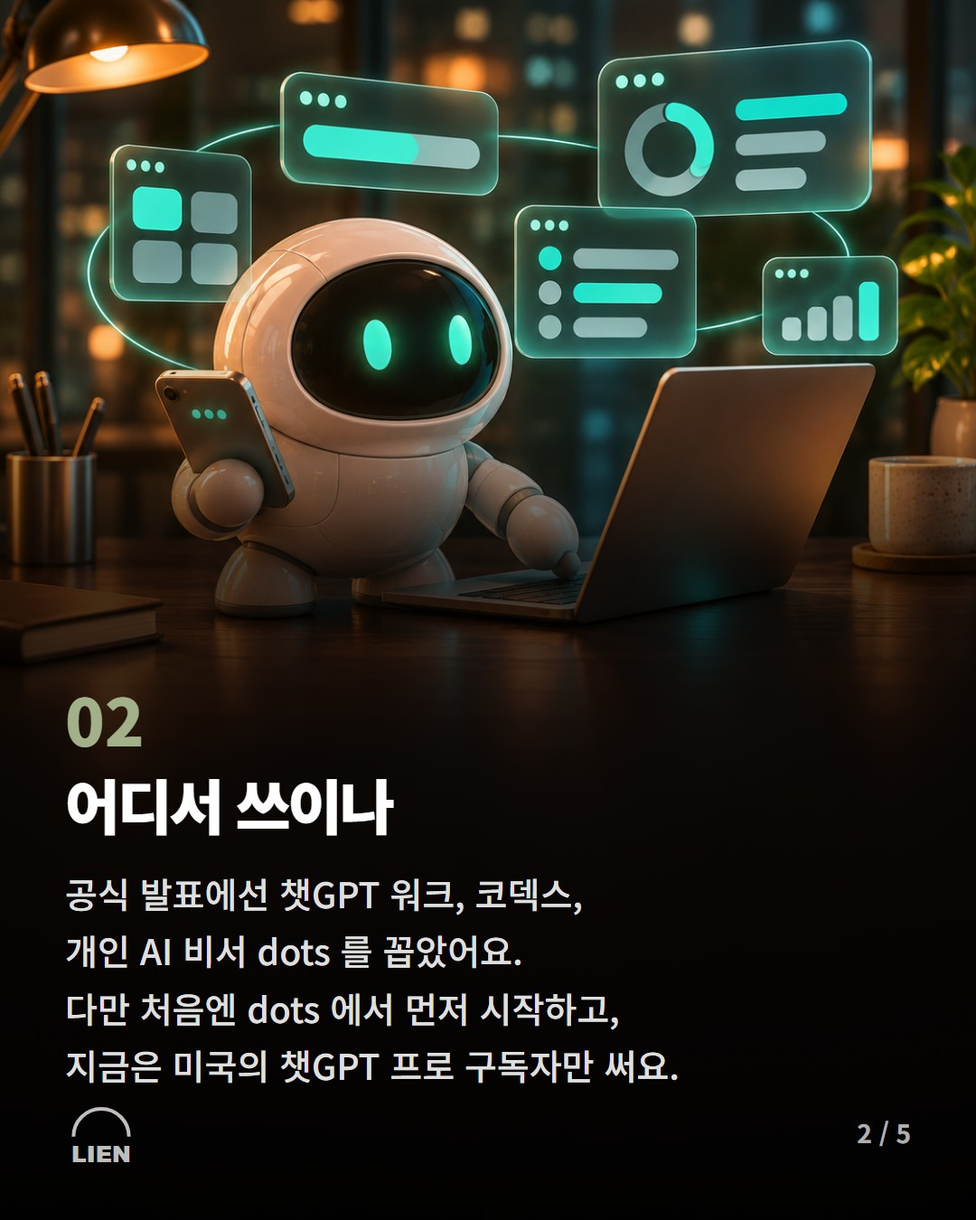
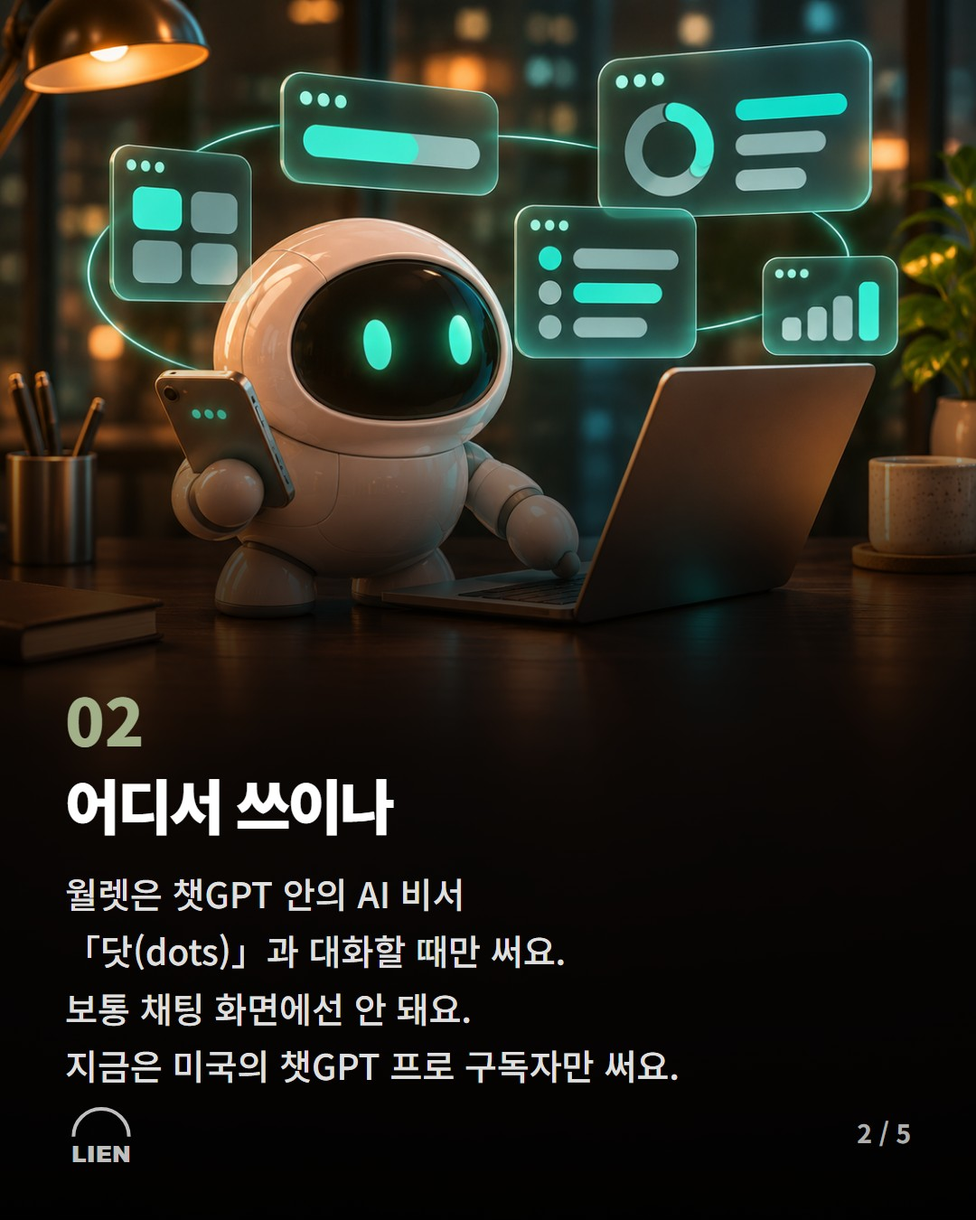
홈페이지 갱신

Changed region(s): [[0.0611, 0.7156, 0.6417, 0.84]]

diff --git a/jaryo/2026-11-15-ai-shopping-guide/index.html b/jaryo/2026-11-15-ai-shopping-guide/index.html
@@ -1,0 +1,36 @@
+<!doctype html><html lang="ko"><head><meta charset="utf-8">
+<meta name="viewport" content="width=device-width,initial-scale=1">
+<title>지금 바로 쓰는 챗GPT 쇼핑 도우미 | LIEN</title><meta name="description" content="장보기·비교·선물 질문 8개와 결제할 때 지킬 점">
+<meta property="og:title" content="지금 바로 쓰는 챗GPT 쇼핑 도우미 | LIEN"><meta property="og:description" content="장보기·비교·선물 질문 8개와 결제할 때 지킬 점">
+<link rel="icon" href="../../icon.svg">
+<link rel="preconnect" href="https://fonts.googleapis.com"><link rel="preconnect" href="https://fonts.gstatic.com" crossorigin>
+<link href="https://fonts.googleapis.com/css2?family=Noto+Sans+KR:wght@400;700;800;900&display=swap" rel="stylesheet">
+<link rel="stylesheet" href="../../style.css"></head><body><div class="wrap"><div class="bar"><a class="back" href="../../">‹ 자료실</a><svg viewBox="0 0 120 104" width="46" xmlns="http://www.w3.org/2000/svg" aria-label="LIEN"><path d="M14 58 A46 46 0 0 1 106 58" fill="none" stroke="#181A16" stroke-width="6"/><text x="60" y="100" text-anchor="middle" font-family="Arial Black, Arial" font-weight="900" font-size="38" fill="#181A16">LIEN</text></svg><span style="width:70px"></span></div><span class="tag">따라 하기 자료</span><h2>지금 바로 쓰는 챗GPT 쇼핑 도우미</h2><div class="meta">2026-11-18 · 카드뉴스 「<a href="../../cards/2026-11-15-chatgpt-wallet/">이것까지 딸깍?</a>」 이어 보기</div><div class="exp"><b>한국에서는 지금 어디까지 되나요?</b><p>챗GPT 월렛은 아직 한국에서 쓸 수 없어요. 미국에 살고 미국에서 발급한 신용카드가 있는, 만 18세 이상 챗GPT 유료 요금제 「프로」 이용자에게만 차례로 열리고 있어요. 오픈AI는 앞으로 더 많은 사람이 쓰게 넓히겠다고만 했고, 한국에 언제 여는지는 밝히지 않았어요. 월렛이 들어가는 AI 비서 닷(dots)은 한국에서도 만 18세 이상 프로 이용자에게 차례로 열리고 있지만, 월렛 결제는 미국에서만 돼요.
+
+대신 「찾고 → 비교하고 → 고르기」는 지금 한국에서도 챗GPT로 할 수 있어요. 인터넷 검색은 무료 요금제에서도 돼요. 아래 질문 글을 복사해 붙여 넣고, 결제만 판매처에서 직접 하면 돼요.</p></div><div class="step"><span class="n">1</span><div><b>챗GPT를 열어요</b><i>휴대폰에 챗GPT 앱이 없으면 플레이스토어(아이폰은 앱스토어)에서 「ChatGPT」를 찾아, 만든 곳에 「OpenAI」라고 적힌 앱을 받아요. 컴퓨터는 chatgpt.com 에 들어가면 돼요. 로그인은 해 두고, 요금제는 무료로 충분해요. 앱을 열면 빈 「새 채팅」이 바로 준비돼 있어요.</i></div></div><div class="step"><span class="n">2</span><div><b>쇼핑 도우미 규칙부터 보내요</b><i>아래 「① 쇼핑 도우미 규칙」 칸 오른쪽 위의 「복사」를 누르고, 챗GPT 맨 아래 글 쓰는 칸을 길게 눌러 「붙여넣기」 한 뒤 보내요. 복사가 안 되면 칸 안의 글을 길게 눌러 골라서 복사해요. 출처 링크와 날짜를 달아 달라고, 결제는 하지 말라고 미리 말해 두는 거예요.</i></div></div><div class="step"><span class="n">3</span><div><b>상황에 맞는 질문을 골라 보내요</b><i>①을 보낸 그 대화에 이어서 보내요. 예산·인원·나이 같은 내용은 내 상황으로 고치면 더 잘 맞아요. 사진이 필요한 질문은 글 쓰는 칸 옆의 + 를 눌러 사진을 함께 올려요(무료 요금제는 하루 3개까지). 화면 캡처에 카드 번호·주소·전화번호가 보이면 가리고 올려요.</i></div></div><div class="step"><span class="n">4</span><div><b>출처 링크를 열어 날짜를 봐요</b><i>인터넷 검색 결과는 오래됐거나 틀릴 수 있어요. 답 문장 끝에 붙은 작은 사이트 이름을 누르면 그 글이 열리고, 답 아래 「출처」를 누르면 링크를 모아 볼 수 있어요. 정말 그렇게 적혀 있는지, 언제 올라온 글인지 확인하고, 이상하면 「공식 판매처 기준으로 다시 찾아 줘」라고 부탁해요.</i></div></div><div class="step"><span class="n">5</span><div><b>결제는 판매처에서 내가 직접 해요</b><i>배송비까지 더한 최종 가격, 재고·크기·색상, 반품·보증 조건을 판매처 화면에서 확인한 뒤 결제해요.</i></div></div><div class="q"><div class="qt">① 쇼핑 도우미 규칙 — 맨 먼저 보내기</div><div class="qb">지금부터 이 대화에서 내 쇼핑 도우미가 되어 줘. 아래 규칙을 꼭 지켜 줘.
+1. 가격·재고·할인처럼 자주 바뀌는 정보는 인터넷에서 새로 찾아서 답하고, 출처 링크와 그 글이 올라온 날짜를 같이 적어 줘.
+2. 일주일이 넘은 가격·할인 정보나 출처가 분명하지 않은 정보는 「확인 필요」라고 표시해 줘.
+3. 광고나 협찬으로 보이는 글은 근거로 쓰지 마.
+4. 주문·결제·회원가입은 하지 말고, 내가 직접 살 수 있게 판매처 링크만 줘.
+5. 내 카드 번호, 비밀번호, 인증번호는 절대 묻지 마.
+알겠으면 「준비됐어요」라고만 답해 줘.</div><button class="cp" onclick="navigator.clipboard.writeText(this.previousElementSibling.textContent);this.textContent='복사됨'">복사</button></div><div class="q"><div class="qt">② 일주일 장보기 목록</div><div class="qb">맞벌이 4인 가족(초등학생 2명)의 다음 주 평일 저녁 메뉴 5일 치를 짜 줘.
+- 한 끼 준비 시간은 30분 안
+- 재료가 서로 겹치게 짜서 남는 재료 줄이기
+- 장보기 예산은 12만 원 안
+메뉴표를 먼저 보여 주고, 장보기 목록은 채소·고기·생선·양념·기타로 나눠 필요한 양과 함께 정리해 줘. 집에 흔히 있는 양념은 따로 표시해 줘.</div><button class="cp" onclick="navigator.clipboard.writeText(this.previousElementSibling.textContent);this.textContent='복사됨'">복사</button></div><div class="q"><div class="qt">③ 냉장고 사진으로 오늘 저녁 정하기 (사진 함께)</div><div class="qb">냉장고 안을 찍은 사진을 같이 보낼게. 사진 속 재료로 오늘 저녁에 만들 수 있는 메뉴 3가지를 추천해 줘. 빨리 써야 할 것 같은 재료가 들어가는 메뉴부터 보여 주고, 메뉴마다 더 사야 할 재료만 짧게 적어 줘.</div><button class="cp" onclick="navigator.clipboard.writeText(this.previousElementSibling.textContent);this.textContent='복사됨'">복사</button></div><div class="q"><div class="qt">④ 가전 비교표 만들기</div><div class="qb">원룸에서 쓸 무선 청소기를 사려고 해. 예산은 30만 원 안이고, 손목이 약해서 가벼운 게 좋아.
+인터넷에서 최근 후기와 제품 정보를 찾아 많이 추천되는 제품 3개를 골라 줘. 무게, 한 번 충전으로 쓰는 시간, 소음, 먼지통 크기, 소모품 값을 표로 비교하고, 내 조건에 가장 맞는 하나를 이유와 함께 골라 줘. 출처 링크와 날짜도 붙여 줘.</div><button class="cp" onclick="navigator.clipboard.writeText(this.previousElementSibling.textContent);this.textContent='복사됨'">복사</button></div><div class="q"><div class="qt">⑤ 부모님 선물 고르기</div><div class="qb">60대 아버지 생신 선물을 고르고 있어. 예산은 10만 원 안이고, 등산과 낚시를 좋아하시는데 요즘 무릎이 조금 안 좋으셔.
+받자마자 쓸 수 있는 선물 5개를 추천해 줘. 선물마다 왜 좋은지 한 줄, 살 때 확인할 점(크기, 교환·반품 가능 여부) 한 줄씩 적어 줘. 건강식품과 상품권은 빼 줘.</div><button class="cp" onclick="navigator.clipboard.writeText(this.previousElementSibling.textContent);this.textContent='복사됨'">복사</button></div><div class="q"><div class="qt">⑥ 가족 여행 준비물</div><div class="qb">이번 겨울에 강원도 스키장으로 2박 3일 가족 여행을 가. 어른 2명, 7살 아이 1명이야.
+준비물 목록을 만들어 줘. 집에 있을 법한 것, 새로 사야 할 것, 빌리는 게 나은 것으로 나누고, 새로 살 것은 「꼭 필요」와 「있으면 좋음」으로 표시해 줘.</div><button class="cp" onclick="navigator.clipboard.writeText(this.previousElementSibling.textContent);this.textContent='복사됨'">복사</button></div><div class="q"><div class="qt">⑦ 국내에서 살까, 해외 직구로 살까</div><div class="qb">무선 이어폰을 국내 정식 판매처에서 살 때와 해외 직구로 살 때를 비교해 줘.
+가격 말고도 보증·수리, 배송 기간, 교환·반품 방법, 세금이 붙는 기준을 표로 정리해 줘. 세금 기준은 관세청 같은 공식 출처에서 찾아 링크와 날짜를 붙여 줘.</div><button class="cp" onclick="navigator.clipboard.writeText(this.previousElementSibling.textContent);this.textContent='복사됨'">복사</button></div><div class="q"><div class="qt">⑧ 결제 직전 마지막 점검 (화면 캡처 함께)</div><div class="qb">지금 사려는 상품의 판매 화면을 캡처해서 같이 보낼게. 결제 전에 확인할 것들을 이 화면에서 찾아 정리해 줘.
+- 배송비까지 더한 최종 가격
+- 도착 예정일
+- 교환·반품 조건과 비용
+- 판매자 정보
+- 정기 결제나 자동 갱신이 붙어 있는지
+화면에서 확인할 수 없는 항목은 따로 알려 줘.</div><button class="cp" onclick="navigator.clipboard.writeText(this.previousElementSibling.textContent);this.textContent='복사됨'">복사</button></div><div class="warn"><b>⚠ 챗GPT가 알려 준 가격, 그대로 믿지 않기</b><p>챗GPT 첫 답에 나온 가격은 최저가가 아닐 수 있고, 판매처가 값을 바꾸면 늦게 반영될 수 있어요. 후기 요약과 상품에 붙은 추천 표시도 오픈AI가 확인한 사실이 아니에요. 결제하기 전에는 꼭 판매처 화면에서 다시 확인해요.</p></div><div class="warn"><b>⚠ AI가 결제하자고 할 때 지킬 5가지</b><p>오픈AI 월렛 도움말에 나온 안내를 결제 순서에 맞춰 모았어요. 다른 AI 결제 기능을 쓸 때도 똑같이 지키면 돼요.
+1) 판매처·품목·총액·선택된 카드를 하나씩 봐요. 배송 조건과 정기 결제인지도 함께 확인해요.
+2) 내가 부탁한 구매가 맞는지, 믿을 만한 판매처인지 확인해요. 아니면 거절해요.
+3) 카드 번호·유효기간·보안 코드는 채팅창에 절대 쓰지 않아요. 보안 입력 칸에만 넣고, 화면 캡처를 올릴 땐 카드 번호를 가려요.
+4) 승인했다고 주문이 끝난 건 아니에요. 판매처 주문 확인을 보고, 결과가 애매하면 바로 다시 결제하지 말고 판매처에 물어요.
+5) 취소·환불은 판매처에, 내가 하지 않은 결제는 카드사에 바로 알려요.</p></div>
+<div class="foot">LIEN · 당신에게 꼭 필요한 AI 소식과 꿀팁<br><a href="https://www.instagram.com/ai_lien_news/">@ai_lien_news</a></div></div></body></html>

diff --git a/jaryo/2026-11-15-ai-mode-guide/index.html b/jaryo/2026-11-15-ai-mode-guide/index.html
@@ -1,0 +1,18 @@
+<!doctype html><html lang="ko"><head><meta charset="utf-8">
+<meta name="viewport" content="width=device-width,initial-scale=1">
+<title>구글 AI 모드 켜는 법과 질문 10개 | LIEN</title><meta name="description" content="한국어로 바로 쓰는 5단계 + 복사해 쓰는 질문">
+<meta property="og:title" content="구글 AI 모드 켜는 법과 질문 10개 | LIEN"><meta property="og:description" content="한국어로 바로 쓰는 5단계 + 복사해 쓰는 질문">
+<link rel="icon" href="../../icon.svg">
+<link rel="preconnect" href="https://fonts.googleapis.com"><link rel="preconnect" href="https://fonts.gstatic.com" crossorigin>
+<link href="https://fonts.googleapis.com/css2?family=Noto+Sans+KR:wght@400;700;800;900&display=swap" rel="stylesheet">
+<link rel="stylesheet" href="../../style.css"></head><body><div class="wrap"><div class="bar"><a class="back" href="../../">‹ 자료실</a><svg viewBox="0 0 120 104" width="46" xmlns="http://www.w3.org/2000/svg" aria-label="LIEN"><path d="M14 58 A46 46 0 0 1 106 58" fill="none" stroke="#181A16" stroke-width="6"/><text x="60" y="100" text-anchor="middle" font-family="Arial Black, Arial" font-weight="900" font-size="38" fill="#181A16">LIEN</text></svg><span style="width:70px"></span></div><span class="tag">따라 하기 자료</span><h2>구글 AI 모드 켜는 법과 질문 10개</h2><div class="meta">2026-11-18 · 카드뉴스 「<a href="../../cards/2026-11-15-google-hydrogen/">구글 검색이 확 달라졌다</a>」 이어 보기</div><div class="exp"><b>AI 모드, 한국어로 지금 바로 돼요</b><p>「AI 모드」는 구글 검색 안에 있는 AI 검색이에요. 궁금한 걸 문장으로 물으면 질문을 작은 갈래로 나눠 여러 곳을 한꺼번에 찾아본 뒤, 답을 정리해 링크와 함께 보여 줘요.
+한국에서 한국어로 쓸 수 있어요. 구글 도움말의 지원 나라·언어 목록에 대한민국과 한국어가 들어 있어요.
+구글은 11월 12일부터 새 AI 「제미나이 4 하이드로젠」을 검색에 차례로 넣고 있어요. 누구나 쓸 수 있고, AI 모드가 지원하는 모든 언어에서 답이 더 섬세해진다고 했어요. 한국어도 그 언어 중 하나예요.</p></div><div class="step"><span class="n">1</span><div><b>휴대폰은 구글 앱에서 「AI 모드」</b><i>구글 앱(흰 바탕에 알록달록한 G 그림)을 열면 처음 나오는 화면에 「AI 모드」가 있어요. 그걸 눌러요.
+앱이 없으면 플레이 스토어(아이폰은 앱 스토어)에서 「구글」을 찾아 받거나, 2번처럼 인터넷 창에서 열어요.</i></div></div><div class="step"><span class="n">2</span><div><b>또는 인터넷 창에서 google.com/ai</b><i>컴퓨터나 휴대폰의 크롬·사파리 같은 인터넷 창 주소창에 google.com/ai 를 넣으면 AI 모드가 바로 열려요.
+google.com 검색창에 질문을 쓰고 「AI 모드」를 눌러도 돼요.</i></div></div><div class="step"><span class="n">3</span><div><b>「무엇이든 물어보세요」 창에 붙여 넣기</b><i>아래 질문에서 「복사」를 누른 다음, AI 모드 화면 아래 「무엇이든 물어보세요」 창을 길게 눌러(컴퓨터는 마우스 오른쪽 단추) 「붙여넣기」를 누르고 보내요.
+조건이 여러 개여도, 오타가 섞여도 괜찮아요. 생각나는 대로 문장으로 물어보세요.</i></div></div><div class="step"><span class="n">4</span><div><b>말이나 사진으로 묻기</b><i>창에 있는 마이크 모양 단추를 누르면 말로 물을 수 있어요.
+사진은 창의 「+」 단추를 눌러 올린 다음 질문을 덧붙여요. 휴대폰에서는 카메라 모양 렌즈 단추를 눌러 바로 찍어도 돼요.</i></div></div><div class="step"><span class="n">5</span><div><b>이어서 묻고, 출처 눌러 보기</b><i>답을 본 뒤 같은 창에 &#x27;더 가까운 곳으로&#x27;, &#x27;표로 다시&#x27;처럼 이어서 물어보세요.
+답 문장 끝에 붙은 작은 사이트 이름(출처)을 누르면 원래 글을 볼 수 있어요.</i></div></div><div class="exp"><b>붙여 넣을 질문 10개</b><p>그대로 붙여 넣어도 되고, 나이·지역·예산만 내 상황으로 바꾸면 더 잘 맞아요.
+조건을 한 번에 다 적고, &#x27;표로&#x27;, &#x27;하나만 골라&#x27;처럼 받고 싶은 모양까지 말하는 게 요령이에요.</p></div><div class="q"><div class="qt">질문 ① 조건 여러 개 한 번에 — 주말 나들이</div><div class="qb">이번 주말에 5살 아이, 70대 부모님과 함께 서울 근교로 당일 나들이를 가려고 해. 유모차와 휠체어로 다니기 편한 평평한 길, 가까운 주차장, 깨끗한 화장실, 추우면 들어가 쉴 수 있는 실내 공간이 모두 있는 곳 3곳을 추천해 줘. 서울시청에서 차로 대략 얼마나 걸리는지도 함께 표로 정리해 줘.</div><button class="cp" onclick="navigator.clipboard.writeText(this.previousElementSibling.textContent);this.textContent='복사됨'">복사</button></div><div class="q"><div class="qt">질문 ② 비교표로 받기 — 아기 방 가습기</div><div class="qb">4평쯤 되는 아기 방에 둘 가습기를 사려고 해. 밤새 켜 둘 거라 소리가 작아야 하고, 매일 씻기 쉬워야 해. 가열식·초음파식·자연기화식을 전기요금, 씻기 편한 정도, 소음, 화상 위험으로 나눠 비교표를 만들어 주고, 우리 집에 맞는 방식 하나만 골라 이유를 알려 줘.</div><button class="cp" onclick="navigator.clipboard.writeText(this.previousElementSibling.textContent);this.textContent='복사됨'">복사</button></div><div class="q"><div class="qt">질문 ③ 오타도 괜찮아요 — 롱패딩 빨래</div><div class="qb">오리털 롱패딩 세탁기에 돌려도 되나요 라벨에 손빨래 그림잇음 건조기도 돌려도되는지 냄새안나게 말리는법까지 알려주세여</div><button class="cp" onclick="navigator.clipboard.writeText(this.previousElementSibling.textContent);this.textContent='복사됨'">복사</button></div><div class="q"><div class="qt">질문 ④ 일정 짜기 — 부모님과 부산 여행</div><div class="qb">다음 달에 부모님을 모시고 2박 3일로 부산에 가. 두 분 다 무릎이 안 좋아서 오래 걷거나 계단이 많은 곳은 빼 줘. 서울에서 기차로 가고, 부산 안에서는 택시로만 다닐 거야. 날짜별로 오전·점심·오후·저녁 일정을 짜 주고, 바닷바람이 셀 때 갈 만한 실내 장소도 넣어 줘.</div><button class="cp" onclick="navigator.clipboard.writeText(this.previousElementSibling.textContent);this.textContent='복사됨'">복사</button></div><div class="q"><div class="qt">질문 ⑤ 장보기 목록까지 — 일주일 저녁 메뉴</div><div class="qb">4인 가족의 평일 5일 저녁 메뉴를 짜 줘. 초등학생 아이가 매운 걸 못 먹고, 한 끼는 30분 안에 만들 수 있어야 하고, 재료비는 한 끼에 2만 원 안쪽이면 좋겠어. 요일별 메뉴 표를 먼저 보여 주고, 마트에서 한 번에 살 수 있게 장보기 목록을 채소, 고기·생선, 양념으로 나눠 줘.</div><button class="cp" onclick="navigator.clipboard.writeText(this.previousElementSibling.textContent);this.textContent='복사됨'">복사</button></div><div class="q"><div class="qt">질문 ⑥ 사진 먼저 올리고 — 외국 메뉴판</div><div class="qb">사진 속 메뉴판을 한국어로 옮겨 줘. 그중에서 고수가 들어가지 않고 맵지 않은 메뉴만 골라서, 처음 먹어 보는 사람에게 권할 만한 것 3개를 알려 줘.</div><button class="cp" onclick="navigator.clipboard.writeText(this.previousElementSibling.textContent);this.textContent='복사됨'">복사</button></div><div class="q"><div class="qt">질문 ⑦ 연말 할 일 — 연말정산 미리 챙기기</div><div class="qb">나는 연봉 4천만 원쯤 받는 직장인이고 혼자 월세로 살아. 결제는 거의 신용카드로 해. 내년 초 연말정산에서 더 돌려받으려면 올해 12월 31일까지 할 수 있는 일을 중요한 순서대로 할 일 목록으로 만들어 줘. 항목마다 어디서 확인하면 되는지도 적어 줘.</div><button class="cp" onclick="navigator.clipboard.writeText(this.previousElementSibling.textContent);this.textContent='복사됨'">복사</button></div><div class="q"><div class="qt">질문 ⑧ 선물 고르기 — 팀원 연말 선물</div><div class="qb">연말에 팀원 8명에게 한 사람당 2만 원 안쪽으로 선물을 하려고 해. 20대부터 50대까지 섞여 있고 남녀가 반반이야. 누가 받아도 호불호가 적고 회사 책상에서 쓸 수 있는 선물 5가지를 값, 고른 이유와 함께 표로 정리해 줘.</div><button class="cp" onclick="navigator.clipboard.writeText(this.previousElementSibling.textContent);this.textContent='복사됨'">복사</button></div><div class="q"><div class="qt">질문 ⑨ 까닭 찾기 — 전기요금이 두 배</div><div class="qb">이번 달 전기요금이 지난달보다 두 배 가까이 나왔어. 25평 아파트에 살고, 이번 달부터 전기장판과 전기 온풍기를 쓰기 시작했어. 요금이 오른 까닭을 가능성이 높은 순서로 짚어 주고, 한국전력에 문의하기 전에 집에서 확인할 것과 요금을 줄이는 방법을 알려 줘.</div><button class="cp" onclick="navigator.clipboard.writeText(this.previousElementSibling.textContent);this.textContent='복사됨'">복사</button></div><div class="q"><div class="qt">질문 ⑩ 카드에 나온 질문 — 생일 같을 확률</div><div class="qb">친구가 23명만 한 방에 모여도 생일이 같은 사람이 있을 확률이 절반을 넘는대. 말이 안 되는 것 같은데, 어려운 공식 없이 중학생도 알아듣게 설명해 줘.</div><button class="cp" onclick="navigator.clipboard.writeText(this.previousElementSibling.textContent);this.textContent='복사됨'">복사</button></div><div class="warn"><b>⚠ 중요한 건 한 번 더 확인</b><p>AI 모드도 틀릴 수 있어요. 돈·세금·건강처럼 중요한 건 출처 링크로 원래 글을 보고, 두 곳 이상에서 확인하세요.
+질문 내용이 구글의 AI 개선에 쓰일 수 있고 사람이 검토할 수도 있다고 도움말에 적혀 있어요. 이름·전화번호·카드번호 같은 개인 정보는 넣지 마세요.</p></div><div class="warn"><b>⚠ 아직 한국어로는 안 되는 것</b><p>숫자를 바꿔 가며 보는 계산기·움직이는 그림 같은 &#x27;대화형 시각 자료&#x27;는 지금은 로그인한 사람에게 영어로만 나와요.</p></div>
+<div class="foot">LIEN · 당신에게 꼭 필요한 AI 소식과 꿀팁<br><a href="https://www.instagram.com/ai_lien_news/">@ai_lien_news</a></div></div></body></html>

diff --git a/cards/2026-11-15-chatgpt-wallet/index.html b/cards/2026-11-15-chatgpt-wallet/index.html
@@ -5,7 +5,7 @@
 <link rel="icon" href="../../icon.svg">
 <link rel="preconnect" href="https://fonts.googleapis.com"><link rel="preconnect" href="https://fonts.gstatic.com" crossorigin>
 <link href="https://fonts.googleapis.com/css2?family=Noto+Sans+KR:wght@400;700;800;900&display=swap" rel="stylesheet">
-<link rel="stylesheet" href="../../style.css"></head><body><div class="wrap"><div class="bar"><a class="back" href="../../">‹ 처음으로</a><svg viewBox="0 0 120 104" width="46" xmlns="http://www.w3.org/2000/svg" aria-label="LIEN"><path d="M14 58 A46 46 0 0 1 106 58" fill="none" stroke="#181A16" stroke-width="6"/><text x="60" y="100" text-anchor="middle" font-family="Arial Black, Arial" font-weight="900" font-size="38" fill="#181A16">LIEN</text></svg><span style="width:70px"></span></div><span class="tag">AI 소식</span><h2>이것까지 딸깍?</h2><div class="meta">2026.11.15 · 카드 7장</div><div class="slides"><img src="01.jpg" alt="이것까지 딸깍? 1장" loading="lazy"><img src="02.jpg" alt="이것까지 딸깍? 2장" loading="lazy"><img src="03.jpg" alt="이것까지 딸깍? 3장" loading="lazy"><img src="04.jpg" alt="이것까지 딸깍? 4장" loading="lazy"><img src="05.jpg" alt="이것까지 딸깍? 5장" loading="lazy"><img src="06.jpg" alt="이것까지 딸깍? 6장" loading="lazy"><img src="07.jpg" alt="이것까지 딸깍? 7장" loading="lazy"></div><div class="hint">옆으로 넘겨 보세요 ›</div><div class="cap">이제 AI가 장보기부터 결제까지 끝내준다고? 💳
+<link rel="stylesheet" href="../../style.css"></head><body><div class="wrap"><div class="bar"><a class="back" href="../../">‹ 처음으로</a><svg viewBox="0 0 120 104" width="46" xmlns="http://www.w3.org/2000/svg" aria-label="LIEN"><path d="M14 58 A46 46 0 0 1 106 58" fill="none" stroke="#181A16" stroke-width="6"/><text x="60" y="100" text-anchor="middle" font-family="Arial Black, Arial" font-weight="900" font-size="38" fill="#181A16">LIEN</text></svg><span style="width:70px"></span></div><span class="tag">AI 소식</span><h2>이것까지 딸깍?</h2><div class="meta">2026.11.15 · 카드 7장</div><div class="slides"><img src="01.jpg" alt="이것까지 딸깍? 1장" loading="lazy"><img src="02.jpg" alt="이것까지 딸깍? 2장" loading="lazy"><img src="03.jpg" alt="이것까지 딸깍? 3장" loading="lazy"><img src="04.jpg" alt="이것까지 딸깍? 4장" loading="lazy"><img src="05.jpg" alt="이것까지 딸깍? 5장" loading="lazy"><img src="06.jpg" alt="이것까지 딸깍? 6장" loading="lazy"><img src="07.jpg" alt="이것까지 딸깍? 7장" loading="lazy"></div><div class="hint">옆으로 넘겨 보세요 ›</div><div class="sec"><div class="st">따라 하기 자료</div></div><a class="it" href="../../jaryo/2026-11-15-ai-shopping-guide/"><span class="ic">🛒</span><div><b>지금 바로 쓰는 챗GPT 쇼핑 도우미</b><i>장보기·비교·선물 질문 8개와 결제할 때 지킬 점</i></div></a><div class="cap">이제 AI가 장보기부터 결제까지 끝내준다고? 💳
 
 오픈AI가 11월 13일 「챗GPT 월렛」을 공개했어요. 챗GPT 안의 AI 비서 「닷(dots)」이 무엇을 살지 함께 고르고, 결제까지 대신 마무리해 주는 지갑 기능이에요.
 
@@ -26,7 +26,7 @@
 
 찾고, 비교하고, 결제하는 일을 통째로 맡기는 날이 생각보다 빨리 오고 있어요. 여러분은 AI에게 결제까지 맡길 수 있으세요? 💬
 
-이 소식 궁금해할 동료에게 보내주세요 📤
+💬 댓글에 「자료」라고 남겨 주시면 지금 한국에서 바로 쓰는 챗GPT 쇼핑 질문 8개와 결제할 때 지킬 점을 메시지로 보내드려요
 매일 아침 꼭 필요한 AI 소식은 @ai_lien_news
 
 출처 ・ OpenAI 공식 발표, TechCrunch (2026.11.13)

diff --git a/index.html b/index.html
@@ -5,5 +5,5 @@
 <link rel="icon" href="icon.svg">
 <link rel="preconnect" href="https://fonts.googleapis.com"><link rel="preconnect" href="https://fonts.gstatic.com" crossorigin>
 <link href="https://fonts.googleapis.com/css2?family=Noto+Sans+KR:wght@400;700;800;900&display=swap" rel="stylesheet">
-<link rel="stylesheet" href="style.css"></head><body><div class="wrap"><div class="bar"><svg viewBox="0 0 120 104" width="56" xmlns="http://www.w3.org/2000/svg" aria-label="LIEN"><path d="M14 58 A46 46 0 0 1 106 58" fill="none" stroke="#181A16" stroke-width="6"/><text x="60" y="100" text-anchor="middle" font-family="Arial Black, Arial" font-weight="900" font-size="38" fill="#181A16">LIEN</text></svg><div class="menu"><a href="#news">소식</a><a href="#jaryo">자료실</a></div></div><div class="hero"><div class="kick">쉽게 · 바로 써먹게</div><h1>당신에게 꼭 필요한<br>AI 소식과 꿀팁</h1><div class="btns"><a class="b1" href="https://www.instagram.com/ai_lien_news/">인스타 팔로우</a></div></div><div class="sec" id="news"><div class="st">새 소식</div></div><div class="grid"><a class="cd" href="cards/2026-11-15-google-hydrogen/"><img src="cards/2026-11-15-google-hydrogen/01.jpg" alt="구글 검색이 확 달라졌다"><div class="ct">구글 검색이 확 달라졌다</div><div class="cm">11.15 · 카드 7장</div></a><a class="cd" href="cards/2026-11-15-chatgpt-wallet/"><img src="cards/2026-11-15-chatgpt-wallet/01.jpg" alt="이것까지 딸깍?"><div class="ct">이것까지 딸깍?</div><div class="cm">11.15 · 카드 7장</div></a></div><div class="sec" id="jaryo"><div class="st">따라 하기 자료</div></div><div class="empty">첫 따라 하기 자료를 준비하고 있어요</div>
+<link rel="stylesheet" href="style.css"></head><body><div class="wrap"><div class="bar"><svg viewBox="0 0 120 104" width="56" xmlns="http://www.w3.org/2000/svg" aria-label="LIEN"><path d="M14 58 A46 46 0 0 1 106 58" fill="none" stroke="#181A16" stroke-width="6"/><text x="60" y="100" text-anchor="middle" font-family="Arial Black, Arial" font-weight="900" font-size="38" fill="#181A16">LIEN</text></svg><div class="menu"><a href="#news">소식</a><a href="#jaryo">자료실</a></div></div><div class="hero"><div class="kick">쉽게 · 바로 써먹게</div><h1>당신에게 꼭 필요한<br>AI 소식과 꿀팁</h1><div class="btns"><a class="b1" href="https://www.instagram.com/ai_lien_news/">인스타 팔로우</a></div></div><div class="sec" id="news"><div class="st">새 소식</div></div><div class="grid"><a class="cd" href="cards/2026-11-15-google-hydrogen/"><img src="cards/2026-11-15-google-hydrogen/01.jpg" alt="구글 검색이 확 달라졌다"><div class="ct">구글 검색이 확 달라졌다</div><div class="cm">11.15 · 카드 7장</div></a><a class="cd" href="cards/2026-11-15-chatgpt-wallet/"><img src="cards/2026-11-15-chatgpt-wallet/01.jpg" alt="이것까지 딸깍?"><div class="ct">이것까지 딸깍?</div><div class="cm">11.15 · 카드 7장</div></a></div><div class="sec" id="jaryo"><div class="st">따라 하기 자료</div></div><a class="it" href="jaryo/2026-11-15-ai-mode-guide/"><span class="ic">🔍</span><div><b>구글 AI 모드 켜는 법과 질문 10개</b><i>한국어로 바로 쓰는 5단계 + 복사해 쓰는 질문</i></div></a><a class="it" href="jaryo/2026-11-15-ai-shopping-guide/"><span class="ic">🛒</span><div><b>지금 바로 쓰는 챗GPT 쇼핑 도우미</b><i>장보기·비교·선물 질문 8개와 결제할 때 지킬 점</i></div></a>
 <div class="foot">LIEN · 당신에게 꼭 필요한 AI 소식과 꿀팁<br><a href="https://www.instagram.com/ai_lien_news/">@ai_lien_news</a></div></div></body></html>

diff --git a/style.css b/style.css
@@ -19,6 +19,9 @@ a{color:inherit;text-decoration:none}
 .ct{font-size:14px;font-weight:800;padding:10px 11px 2px;line-height:1.35} .cm{font-size:12px;color:#888;padding:0 11px 11px}
 .it{display:flex;gap:12px;align-items:center;background:#fff;border-radius:14px;padding:13px 15px;margin-bottom:8px}
 .ic{font-size:22px} .it b{display:block;font-size:14.5px} .it i{font-style:normal;font-size:12.5px;color:#888}
+.get{display:flex;gap:13px;align-items:center;background:#fff;border-radius:14px;padding:10px;margin-bottom:10px}
+.get img{width:76px;height:95px;object-fit:cover;border-radius:10px;flex:none} .get b{display:block;font-size:15px} .get i{display:block;font-style:normal;font-size:12.5px;color:#888} .get em{display:block;font-style:normal;font-size:11.5px;color:#5E6B4A;margin-top:4px}
+.btns.solo{padding:0 2px 6px}
 .empty{background:#fff;border-radius:14px;padding:18px;color:#777;font-size:14px;text-align:center}
 .tag{display:inline-block;background:#A3B18A;color:#fff;font-size:12px;font-weight:700;padding:4px 10px;border-radius:999px}
 h2{font-size:26px;line-height:1.3;font-weight:900;margin:10px 0 6px} .meta{font-size:12.5px;color:#888;margin-bottom:16px}
@@ -32,6 +35,10 @@ h2{font-size:26px;line-height:1.3;font-weight:900;margin:10px 0 6px} .meta{font-
 .q{background:#fff;border-radius:14px;padding:13px 15px;margin-bottom:10px;border-left:5px solid #A3B18A;position:relative}
 .qt{font-size:12.5px;font-weight:800;color:#5E6B4A} .qb{font-size:14.5px;margin-top:5px;padding-right:52px;word-break:keep-all}
 .cp{position:absolute;right:12px;top:12px;font-size:12px;font-weight:700;background:#EEF1E7;color:#5E6B4A;padding:5px 10px;border-radius:8px;border:0}
+.exp{padding:6px 4px 14px} .exp b{display:block;font-size:16px;font-weight:900;margin-bottom:6px} .exp p{font-size:15px;white-space:pre-line;word-break:keep-all}
+.warn{background:#FFF6DA;border-radius:14px;padding:13px 15px;margin-bottom:10px;border-left:5px solid #E2B33C}
+.warn b{display:block;font-size:14px;font-weight:800;color:#7A5A06} .warn p{font-size:14px;margin-top:4px;white-space:pre-line;word-break:keep-all}
+.qb{white-space:pre-line} .step i{white-space:pre-line}
 .kakao{margin-top:22px;background:#FEE500;border-radius:16px;padding:15px 16px;display:flex;justify-content:space-between;align-items:center;gap:10px}
 .kakao b{font-size:14px;color:#3A1D1D} .kakao a{font-size:14px;font-weight:800;background:#3A1D1D;color:#FEE500;padding:10px 13px;border-radius:999px;white-space:nowrap}
 .foot{text-align:center;color:#999;font-size:12px;margin-top:36px}

diff --git a/jaryo/index.html b/jaryo/index.html
@@ -1,0 +1,9 @@
+<!doctype html><html lang="ko"><head><meta charset="utf-8">
+<meta name="viewport" content="width=device-width,initial-scale=1">
+<title>자료 받기 | LIEN</title><meta name="description" content="댓글 남긴 분께 드리는 따라 하기 자료">
+<meta property="og:title" content="자료 받기 | LIEN"><meta property="og:description" content="댓글 남긴 분께 드리는 따라 하기 자료">
+<link rel="icon" href="../icon.svg">
+<link rel="preconnect" href="https://fonts.googleapis.com"><link rel="preconnect" href="https://fonts.gstatic.com" crossorigin>
+<link href="https://fonts.googleapis.com/css2?family=Noto+Sans+KR:wght@400;700;800;900&display=swap" rel="stylesheet">
+<link rel="stylesheet" href="../style.css"></head><body><div class="wrap"><div class="bar"><a class="back" href="../">‹ 처음으로</a><svg viewBox="0 0 120 104" width="46" xmlns="http://www.w3.org/2000/svg" aria-label="LIEN"><path d="M14 58 A46 46 0 0 1 106 58" fill="none" stroke="#181A16" stroke-width="6"/><text x="60" y="100" text-anchor="middle" font-family="Arial Black, Arial" font-weight="900" font-size="38" fill="#181A16">LIEN</text></svg><span style="width:70px"></span></div><span class="tag">자료 받기</span><h2>댓글 남겨 주셔서 고마워요</h2><div class="meta">방금 보신 게시물의 표지를 눌러 자료를 받아 가세요 · 새 자료가 맨 위</div><a class="get" href="2026-11-15-ai-mode-guide/"><img src="../cards/2026-11-15-google-hydrogen/01.jpg" alt=""><div><b>구글 AI 모드 켜는 법과 질문 10개</b><i>한국어로 바로 쓰는 5단계 + 복사해 쓰는 질문</i><em>카드뉴스 「구글 검색이 확 달라졌다」</em></div></a><a class="get" href="2026-11-15-ai-shopping-guide/"><img src="../cards/2026-11-15-chatgpt-wallet/01.jpg" alt=""><div><b>지금 바로 쓰는 챗GPT 쇼핑 도우미</b><i>장보기·비교·선물 질문 8개와 결제할 때 지킬 점</i><em>카드뉴스 「이것까지 딸깍?」</em></div></a><div class="sec"><div class="st">매일 새 AI 소식</div></div><div class="btns solo"><a class="b1" href="https://www.instagram.com/ai_lien_news/">인스타 팔로우하고 매일 받기</a></div>
+<div class="foot">LIEN · 당신에게 꼭 필요한 AI 소식과 꿀팁<br><a href="https://www.instagram.com/ai_lien_news/">@ai_lien_news</a></div></div></body></html>
